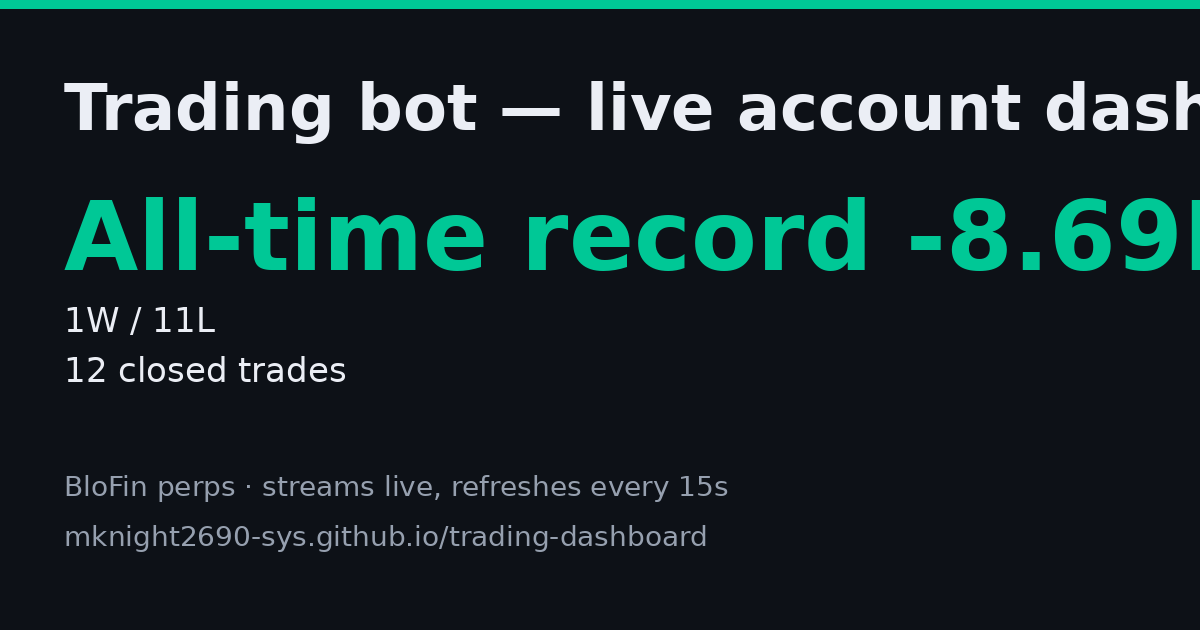
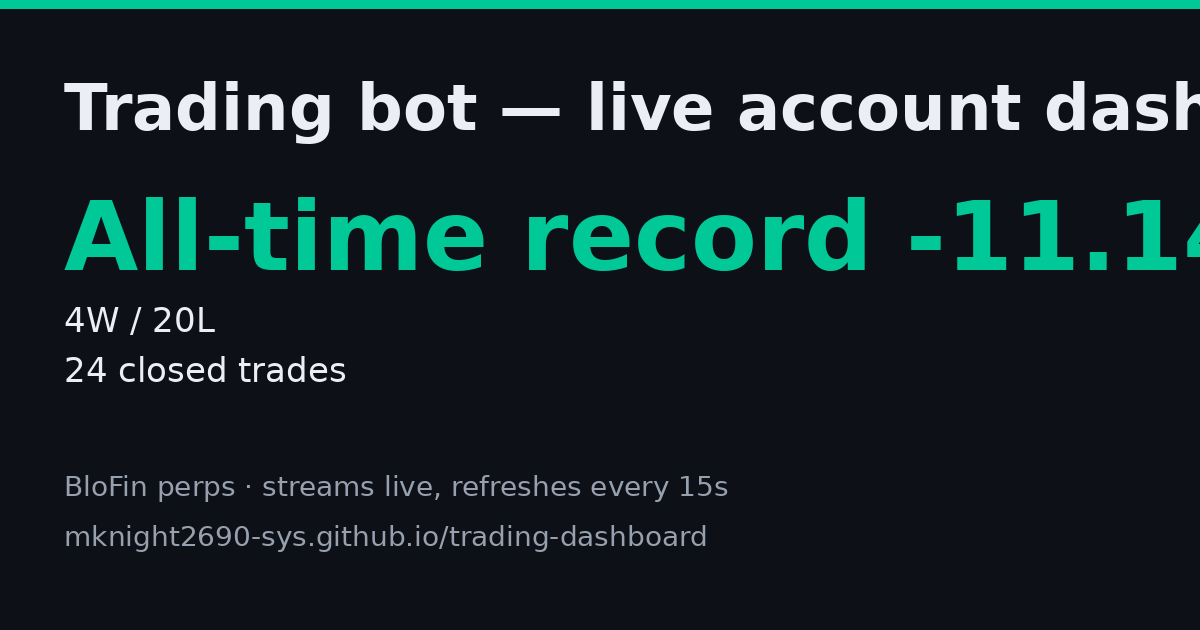
Update dashboard: 4W/20L -11.14R (24 trades)

diff --git a/index.html b/index.html
@@ -346,7 +346,7 @@
    No keys or secrets are on this page; it is read-only. */
 var BF_API = "https://openapi.blofin.com";
 var SNAP_URL = "blofin_state.json";
-var BAKED_SNAP = {"venue":"BloFin","updated_at_ms":1794368368034,"updated_at":"2026-11-11T03:39:28Z","account":{"equity":5.7,"withdrawable":0.39,"used_margin":5.32,"notional":94.2},"positions":[{"coin":"SPX","inst":"SPX-USDT","side":"LONG","timeframe":"1h","size":4.0,"entry":0.3649,"mark":0.3686,"lev":2,"margin":0.7298,"notional":1.4744,"upnl":0.0148,"upnl_pct":2.03,"sl":0.3522,"tp1":0.38480000000000003,"tp2":0.40390000000000004,"tp1_hit":false,"open_ms":1794359100937},{"coin":"COMP","inst":"COMP-USDT","side":"SHORT","timeframe":"15m","size":0.4,"entry":19.87,"mark":19.75,"lev":7,"margin":1.1354,"notional":7.9,"upnl":0.048,"upnl_pct":4.23,"sl":19.98,"tp1":19.66,"tp2":19.490000000000002,"tp1_hit":false,"open_ms":1794364704406},{"coin":"INJ","inst":"INJ-USDT","side":"LONG","timeframe":"15m","size":0.4,"entry":8.328,"mark":8.38,"lev":3,"margin":1.1104,"notional":3.352,"upnl":0.0208,"upnl_pct":1.87,"sl":8.199,"tp1":8.540000000000001,"tp2":8.735,"tp1_hit":false,"open_ms":1794365100000},{"coin":"SNX","inst":"SNX-USDT","side":"LONG","timeframe":"15m","size":35.0,"entry":0.1652,"mark":0.1656,"lev":5,"margin":1.1564,"notional":5.796,"upnl":0.014,"upnl_pct":1.21,"sl":0.1637,"tp1":0.1678,"tp2":0.17,"tp1_hit":false,"open_ms":1794365220000},{"coin":"FET","inst":"FET-USDT","side":"LONG","timeframe":"15m","size":40.0,"entry":0.1474,"mark":0.1472,"lev":5,"margin":1.1792,"notional":5.888,"upnl":-0.008,"upnl_pct":-0.68,"sl":0.1461,"tp1":0.1496,"tp2":0.1515,"tp1_hit":false,"open_ms":1794366900000}],"orders":[{"coin":"SPX","kind":"tp2","side":"sell","type":"limit","px":0.4039,"size":2.0,"reduce_only":true},{"coin":"SPX","kind":"tp1","side":"sell","type":"limit","px":0.3848,"size":2.0,"reduce_only":true},{"coin":"SPX","kind":"sl","side":"sell","type":"tpsl","px":0.3522,"size":4.0,"reduce_only":true},{"coin":"COMP","kind":"tp2","side":"buy","type":"limit","px":19.49,"size":0.2,"reduce_only":true},{"coin":"COMP","kind":"tp1","side":"buy","type":"limit","px":19.66,"size":0.2,"reduce_only":true},{"coin":"COMP","kind":"sl","side":"buy","type":"tpsl","px":19.98,"size":0.4,"reduce_only":true},{"coin":"INJ","kind":"tp2","side":"sell","type":"limit","px":8.735,"size":0.2,"reduce_only":true},{"coin":"INJ","kind":"tp1","side":"sell","type":"limit","px":8.54,"size":0.2,"reduce_only":true},{"coin":"INJ","kind":"sl","side":"sell","type":"tpsl","px":8.199,"size":0.4,"reduce_only":true},{"coin":"SNX","kind":"tp2","side":"sell","type":"limit","px":0.17,"size":18.0,"reduce_only":true},{"coin":"SNX","kind":"tp1","side":"sell","type":"limit","px":0.1678,"size":17.0,"reduce_only":true},{"coin":"SNX","kind":"sl","side":"sell","type":"tpsl","px":0.1637,"size":35.0,"reduce_only":true},{"coin":"FET","kind":"tp2","side":"sell","type":"limit","px":0.1515,"size":20.0,"reduce_only":true},{"coin":"FET","kind":"tp1","side":"sell","type":"limit","px":0.1496,"size":20.0,"reduce_only":true},{"coin":"FET","kind":"sl","side":"sell","type":"tpsl","px":0.1461,"size":40.0,"reduce_only":true}],"fills":[{"coin":"FET","time":1794366932726,"dir":"Open Long","px":0.1472,"sz":40.0,"pnl":0.0,"fee":0.0035328},{"coin":"AVAX","time":1794365910820,"dir":"Close Long","px":8.459,"sz":0.8,"pnl":-0.0656,"fee":0.00406032},{"coin":"SNX","time":1794365250457,"dir":"Open Long","px":0.1652,"sz":35.0,"pnl":0.0,"fee":0.0034692},{"coin":"POLYX","time":1794365220584,"dir":"Close Long","px":0.03046,"sz":236.0,"pnl":-0.06372,"fee":0.004313136},{"coin":"INJ","time":1794365131765,"dir":"Open Long","px":8.336,"sz":0.4,"pnl":0.0,"fee":0.00200064},{"coin":"AVAX","time":1794365128443,"dir":"Open Long","px":8.541,"sz":0.8,"pnl":0.0,"fee":0.00409968},{"coin":"POLYX","time":1794364741057,"dir":"Open Long","px":0.03073,"sz":236.0,"pnl":0.0,"fee":0.004351368},{"coin":"COMP","time":1794364737159,"dir":"Open Short","px":19.86,"sz":0.4,"pnl":0.0,"fee":0.0047664},{"coin":"ZRO","time":1794363080052,"dir":"Close Long","px":1.5417,"sz":2.0,"pnl":-0.0316,"fee":0.00185004},{"coin":"NEAR","time":1794362586475,"dir":"Close Long","px":3.647,"sz":1.0,"pnl":-0.046,"fee":0.0021882},{"coin":"TIA","time":1794362585776,"dir":"Close Long","px":0.4256,"sz":15.0,"pnl":-0.054,"fee":0.0038304},{"coin":"ATOM","time":1794361796858,"dir":"Close Long","px":1.404,"sz":5.0,"pnl":-0.065,"fee":0.004212},{"coin":"NEAR","time":1794361113607,"dir":"Open Long","px":3.693,"sz":1.0,"pnl":0.0,"fee":0.0022158},{"coin":"CHIP","time":1794361079966,"dir":"Close Short","px":0.03283,"sz":150.0,"pnl":-0.0675,"fee":0.0029547},{"coin":"ATOM","time":1794360630407,"dir":"Open Long","px":1.417,"sz":5.0,"pnl":0.0,"fee":0.004251},{"coin":"ZRO","time":1794359739193,"dir":"Open Long","px":1.5575,"sz":2.0,"pnl":0.0,"fee":0.001869},{"coin":"TIA","time":1794359734378,"dir":"Open Long","px":0.4292,"sz":15.0,"pnl":0.0,"fee":0.0038628},{"coin":"CHIP","time":1794359728186,"dir":"Open Short","px":0.03238,"sz":150.0,"pnl":0.0,"fee":0.0029142},{"coin":"SPX","time":1794359134177,"dir":"Open Long","px":0.3653,"sz":4.0,"pnl":0.0,"fee":0.00087672},{"coin":"ALGO","time":1794328519075,"dir":"Close Short","px":0.08814,"sz":20.0,"pnl":0.0744,"fee":0.00035256},{"coin":"AAVE","time":1794325307438,"dir":"Close Short","px":122.57,"sz":0.020000000000000004,"pnl":0.0788,"fee":0.00049028},{"coin":"LINK","time":1794325239367,"dir":"Close Short","px":10.231,"sz":0.3,"pnl":0.0768,"fee":0.00061386},{"coin":"ALGO","time":1794324949231,"dir":"Close Short","px":0.08986,"sz":20.0,"pnl":0.04,"fee":0.00035944},{"coin":"CAKE","time":1794322921303,"dir":"Close Short","px":1.8718,"sz":2.0,"pnl":-0.0376,"fee":0.00224616},{"coin":"LINK","time":1794321451340,"dir":"Open Short","px":10.487,"sz":0.3,"pnl":0.0,"fee":0.00188766},{"coin":"CAKE","time":1794321404218,"dir":"Open Short","px":1.853,"sz":2.0,"pnl":0.0,"fee":0.0022236},{"coin":"BANANA","time":1794321400565,"dir":"Close Short","px":2.898,"sz":2.9000000000000004,"pnl":-0.0783,"fee":0.00504252},{"coin":"ALGO","time":1794321399829,"dir":"Open Short","px":0.09186,"sz":40.0,"pnl":0.0,"fee":0.00220464},{"coin":"BCH","time":1794321385699,"dir":"Close Short","px":235.82,"sz":0.020000000000000004,"pnl":-0.0486,"fee":0.00282984},{"coin":"BSV","time":1794321373189,"dir":"Close Short","px":16.35,"sz":0.4,"pnl":-0.052,"fee":0.003924}],"stats":{"today":{"wins":3,"losses":9,"total_r":-2.45,"trades":12},"week":{"wins":4,"losses":20,"total_r":-11.14,"trades":24},"month":{"wins":4,"losses":20,"total_r":-11.14,"trades":24},"all_time":{"wins":4,"losses":20,"total_r":-11.14,"trades":24},"feed_start":"2026-11-10"},"closed":[{"coin":"MON","close_ms":1794291240000,"r":-0.9024,"pnl":-0.0592,"win":false,"reason":"Position closed (fill not observed)"},{"coin":"PIXEL","close_ms":1794291300000,"r":-0.7152,"pnl":-0.0469,"win":false,"reason":"Position closed (fill not observed)"},{"coin":"PENGU","close_ms":1794317084482,"r":-0.75,"pnl":-0.0492,"win":false,"reason":"Position closed (fill not observed)"},{"coin":"AVNT","close_ms":1794317084482,"r":-0.7073,"pnl":-0.0464,"win":false,"reason":"Position closed (fill not observed)"},{"coin":"DASH","close_ms":1794317084482,"r":-0.686,"pnl":-0.045,"win":false,"reason":"Position closed (fill not observed)"},{"coin":"NIL","close_ms":1794317160000,"r":0.1674,"pnl":0.011,"win":true,"reason":"Position closed (fill not observed)"},{"coin":"IO","close_ms":1794317340000,"r":-0.5183,"pnl":-0.034,"win":false,"reason":"Position closed (fill not observed)"},{"coin":"SUPER","close_ms":1794317460000,"r":-1.193,"pnl":-0.0783,"win":false,"reason":"Position closed (fill not observed)"},{"coin":"ADA","close_ms":1794321360000,"r":-0.6585,"pnl":-0.0432,"win":false,"reason":"Position closed (fill not observed)"},{"coin":"BCH","close_ms":1794321360000,"r":-0.7409,"pnl":-0.0486,"win":false,"reason":"Position closed (fill not observed)"},{"coin":"BSV","close_ms":1794321360000,"r":-0.7927,"pnl":-0.052,"win":false,"reason":"Position closed (fill not observed)"},{"coin":"BANANA","close_ms":1794321420000,"r":-1.1936,"pnl":-0.0783,"win":false,"reason":"Position closed (fill not observed)"},{"coin":"CAKE","close_ms":1794359100937,"r":-0.5732,"pnl":-0.0376,"win":false,"reason":"Position closed (fill not observed)"},{"coin":"AAVE","close_ms":1794359160000,"r":1.2012,"pnl":0.0788,"win":true,"reason":"Position closed (fill not observed)"},{"coin":"ALGO","close_ms":1794359160000,"r":1.7439,"pnl":0.1144,"win":true,"reason":"TP2 hit"},{"coin":"LINK","close_ms":1794359160000,"r":1.1707,"pnl":0.0768,"win":true,"reason":"Position closed (fill not observed)"},{"coin":"CHIP","close_ms":1794361080000,"r":-1.029,"pnl":-0.0675,"win":false,"reason":"Position closed (fill not observed)"},{"coin":"TIA","close_ms":1794364704406,"r":-0.8232,"pnl":-0.054,"win":false,"reason":"Position closed (fill not observed)"},{"coin":"ZRO","close_ms":1794364704406,"r":-0.4817,"pnl":-0.0316,"win":false,"reason":"Position closed (fill not observed)"},{"coin":"ATOM","close_ms":1794364704406,"r":-0.9909,"pnl":-0.065,"win":false,"reason":"Position closed (fill not observed)"},{"coin":"NEAR","close_ms":1794364704406,"r":-0.7012,"pnl":-0.046,"win":false,"reason":"Position closed (fill not observed)"},{"coin":"POLYX","close_ms":1794365220000,"r":-0.9713,"pnl":-0.0637,"win":false,"reason":"Position closed (fill not observed)"},{"coin":"AVAX","close_ms":1794365940000,"r":-1.0,"pnl":-0.0656,"win":false,"reason":"Position closed (fill not observed)"},{"coin":"WLFI","close_ms":1794366060001,"r":0.0,"pnl":0,"win":false,"reason":"Position closed (fill not observed)"}],"universe":{"tradable":153,"hl_total":235,"coins":["0G","AAVE","ACE","ADA","AERO","AIXBT","ALGO","ALT","APE","APT","AR","ARB","ASTER","ATOM","AVAX","AVNT","AXS","BANANA","BCH","BERA","BIGTIME","BIO","BLUR","BNB","BOME","BSV","BTC","CAKE","CASHCAT","CATI","CC","CHIP","COMP","CRV","CYBER","DASH","DOGE","DOT","DYDX","EIGEN","ENA","ENS","ETC","ETH","ETHFI","FARTCOIN","FET","FIL","FTM","GALA","GAS","GMX","GRAM","GRASS","HBAR","HEMI","HYPE","HYPER","ICP","ILV","IMX","INIT","INJ","IO","IOTA","JTO","JUP","KAITO","KAS","LAYER","LDO","LINEA","LINK","LIT","LTC","MANTA","MATIC","ME","MEGA","MELANIA","MEME","MERL","MET","MINA","MNT","MON","MOODENG","MORPHO","MOVE","NEAR","NEO","NIL","NOT","ONDO","OP","ORDI","PENDLE","PENGU","PEOPLE","PIXEL","POL","POLYX","PONS","POPCAT","PUMP","PYTH","RENDER","REZ","RNDR","RSR","RUNE","S","SAGA","SAND","SEI","SKY","SNX","SOL","SPX","STABLE","STRK","STX","SUI","SUPER","SUSHI","SYRUP","TAO","TIA","TRB","TRUMP","TRX","TURBO","UMA","UNI","USELESS","VIRTUAL","VVV","WCT","WIF","WLD","WLFI","XAI","XLM","XMR","XPL","XRP","ZEC","ZEN","ZETA","ZK","ZRO","kPEPE","kSHIB"]},"bot":{"risk_pct":0.01,"max_open":6,"max_margin":0.95,"fee_taker":0.0006,"live_start_ms":1794284568601,"feed_start":"2026-11-10"}};
+var BAKED_SNAP = {"venue":"BloFin","updated_at_ms":1794368970196,"updated_at":"2026-11-11T03:49:30Z","account":{"equity":5.71,"withdrawable":0.4,"used_margin":5.32,"notional":94.22},"positions":[{"coin":"SPX","inst":"SPX-USDT","side":"LONG","timeframe":"1h","size":4.0,"entry":0.3649,"mark":0.3695,"lev":2,"margin":0.7298,"notional":1.478,"upnl":0.0184,"upnl_pct":2.52,"sl":0.3522,"tp1":0.38480000000000003,"tp2":0.40390000000000004,"tp1_hit":false,"open_ms":1794359100937},{"coin":"COMP","inst":"COMP-USDT","side":"SHORT","timeframe":"15m","size":0.4,"entry":19.87,"mark":19.77,"lev":7,"margin":1.1354,"notional":7.908,"upnl":0.04,"upnl_pct":3.52,"sl":19.98,"tp1":19.66,"tp2":19.490000000000002,"tp1_hit":false,"open_ms":1794364704406},{"coin":"INJ","inst":"INJ-USDT","side":"LONG","timeframe":"15m","size":0.4,"entry":8.328,"mark":8.409,"lev":3,"margin":1.1104,"notional":3.3636,"upnl":0.0324,"upnl_pct":2.92,"sl":8.199,"tp1":8.540000000000001,"tp2":8.735,"tp1_hit":false,"open_ms":1794365100000},{"coin":"SNX","inst":"SNX-USDT","side":"LONG","timeframe":"15m","size":35.0,"entry":0.1652,"mark":0.1652,"lev":5,"margin":1.1564,"notional":5.782,"upnl":0.0,"upnl_pct":0.0,"sl":0.1637,"tp1":0.1678,"tp2":0.17,"tp1_hit":false,"open_ms":1794365220000},{"coin":"FET","inst":"FET-USDT","side":"LONG","timeframe":"15m","size":40.0,"entry":0.1474,"mark":0.1471,"lev":5,"margin":1.1792,"notional":5.884,"upnl":-0.012,"upnl_pct":-1.02,"sl":0.1461,"tp1":0.1496,"tp2":0.1515,"tp1_hit":false,"open_ms":1794366900000}],"orders":[{"coin":"SPX","kind":"tp2","side":"sell","type":"limit","px":0.4039,"size":2.0,"reduce_only":true},{"coin":"SPX","kind":"tp1","side":"sell","type":"limit","px":0.3848,"size":2.0,"reduce_only":true},{"coin":"SPX","kind":"sl","side":"sell","type":"tpsl","px":0.3522,"size":4.0,"reduce_only":true},{"coin":"COMP","kind":"tp2","side":"buy","type":"limit","px":19.49,"size":0.2,"reduce_only":true},{"coin":"COMP","kind":"tp1","side":"buy","type":"limit","px":19.66,"size":0.2,"reduce_only":true},{"coin":"COMP","kind":"sl","side":"buy","type":"tpsl","px":19.98,"size":0.4,"reduce_only":true},{"coin":"INJ","kind":"tp2","side":"sell","type":"limit","px":8.735,"size":0.2,"reduce_only":true},{"coin":"INJ","kind":"tp1","side":"sell","type":"limit","px":8.54,"size":0.2,"reduce_only":true},{"coin":"INJ","kind":"sl","side":"sell","type":"tpsl","px":8.199,"size":0.4,"reduce_only":true},{"coin":"SNX","kind":"tp2","side":"sell","type":"limit","px":0.17,"size":18.0,"reduce_only":true},{"coin":"SNX","kind":"tp1","side":"sell","type":"limit","px":0.1678,"size":17.0,"reduce_only":true},{"coin":"SNX","kind":"sl","side":"sell","type":"tpsl","px":0.1637,"size":35.0,"reduce_only":true},{"coin":"FET","kind":"tp2","side":"sell","type":"limit","px":0.1515,"size":20.0,"reduce_only":true},{"coin":"FET","kind":"tp1","side":"sell","type":"limit","px":0.1496,"size":20.0,"reduce_only":true},{"coin":"FET","kind":"sl","side":"sell","type":"tpsl","px":0.1461,"size":40.0,"reduce_only":true}],"fills":[{"coin":"FET","time":1794366932726,"dir":"Open Long","px":0.1472,"sz":40.0,"pnl":0.0,"fee":0.0035328},{"coin":"AVAX","time":1794365910820,"dir":"Close Long","px":8.459,"sz":0.8,"pnl":-0.0656,"fee":0.00406032},{"coin":"SNX","time":1794365250457,"dir":"Open Long","px":0.1652,"sz":35.0,"pnl":0.0,"fee":0.0034692},{"coin":"POLYX","time":1794365220584,"dir":"Close Long","px":0.03046,"sz":236.0,"pnl":-0.06372,"fee":0.004313136},{"coin":"INJ","time":1794365131765,"dir":"Open Long","px":8.336,"sz":0.4,"pnl":0.0,"fee":0.00200064},{"coin":"AVAX","time":1794365128443,"dir":"Open Long","px":8.541,"sz":0.8,"pnl":0.0,"fee":0.00409968},{"coin":"POLYX","time":1794364741057,"dir":"Open Long","px":0.03073,"sz":236.0,"pnl":0.0,"fee":0.004351368},{"coin":"COMP","time":1794364737159,"dir":"Open Short","px":19.86,"sz":0.4,"pnl":0.0,"fee":0.0047664},{"coin":"ZRO","time":1794363080052,"dir":"Close Long","px":1.5417,"sz":2.0,"pnl":-0.0316,"fee":0.00185004},{"coin":"NEAR","time":1794362586475,"dir":"Close Long","px":3.647,"sz":1.0,"pnl":-0.046,"fee":0.0021882},{"coin":"TIA","time":1794362585776,"dir":"Close Long","px":0.4256,"sz":15.0,"pnl":-0.054,"fee":0.0038304},{"coin":"ATOM","time":1794361796858,"dir":"Close Long","px":1.404,"sz":5.0,"pnl":-0.065,"fee":0.004212},{"coin":"NEAR","time":1794361113607,"dir":"Open Long","px":3.693,"sz":1.0,"pnl":0.0,"fee":0.0022158},{"coin":"CHIP","time":1794361079966,"dir":"Close Short","px":0.03283,"sz":150.0,"pnl":-0.0675,"fee":0.0029547},{"coin":"ATOM","time":1794360630407,"dir":"Open Long","px":1.417,"sz":5.0,"pnl":0.0,"fee":0.004251},{"coin":"ZRO","time":1794359739193,"dir":"Open Long","px":1.5575,"sz":2.0,"pnl":0.0,"fee":0.001869},{"coin":"TIA","time":1794359734378,"dir":"Open Long","px":0.4292,"sz":15.0,"pnl":0.0,"fee":0.0038628},{"coin":"CHIP","time":1794359728186,"dir":"Open Short","px":0.03238,"sz":150.0,"pnl":0.0,"fee":0.0029142},{"coin":"SPX","time":1794359134177,"dir":"Open Long","px":0.3653,"sz":4.0,"pnl":0.0,"fee":0.00087672},{"coin":"ALGO","time":1794328519075,"dir":"Close Short","px":0.08814,"sz":20.0,"pnl":0.0744,"fee":0.00035256},{"coin":"AAVE","time":1794325307438,"dir":"Close Short","px":122.57,"sz":0.020000000000000004,"pnl":0.0788,"fee":0.00049028},{"coin":"LINK","time":1794325239367,"dir":"Close Short","px":10.231,"sz":0.3,"pnl":0.0768,"fee":0.00061386},{"coin":"ALGO","time":1794324949231,"dir":"Close Short","px":0.08986,"sz":20.0,"pnl":0.04,"fee":0.00035944},{"coin":"CAKE","time":1794322921303,"dir":"Close Short","px":1.8718,"sz":2.0,"pnl":-0.0376,"fee":0.00224616},{"coin":"LINK","time":1794321451340,"dir":"Open Short","px":10.487,"sz":0.3,"pnl":0.0,"fee":0.00188766},{"coin":"CAKE","time":1794321404218,"dir":"Open Short","px":1.853,"sz":2.0,"pnl":0.0,"fee":0.0022236},{"coin":"BANANA","time":1794321400565,"dir":"Close Short","px":2.898,"sz":2.9000000000000004,"pnl":-0.0783,"fee":0.00504252},{"coin":"ALGO","time":1794321399829,"dir":"Open Short","px":0.09186,"sz":40.0,"pnl":0.0,"fee":0.00220464},{"coin":"BCH","time":1794321385699,"dir":"Close Short","px":235.82,"sz":0.020000000000000004,"pnl":-0.0486,"fee":0.00282984},{"coin":"BSV","time":1794321373189,"dir":"Close Short","px":16.35,"sz":0.4,"pnl":-0.052,"fee":0.003924}],"stats":{"today":{"wins":3,"losses":9,"total_r":-2.45,"trades":12},"week":{"wins":4,"losses":20,"total_r":-11.14,"trades":24},"month":{"wins":4,"losses":20,"total_r":-11.14,"trades":24},"all_time":{"wins":4,"losses":20,"total_r":-11.14,"trades":24},"feed_start":"2026-11-10"},"closed":[{"coin":"MON","close_ms":1794291240000,"r":-0.9024,"pnl":-0.0592,"win":false,"reason":"Position closed (fill not observed)"},{"coin":"PIXEL","close_ms":1794291300000,"r":-0.7152,"pnl":-0.0469,"win":false,"reason":"Position closed (fill not observed)"},{"coin":"PENGU","close_ms":1794317084482,"r":-0.75,"pnl":-0.0492,"win":false,"reason":"Position closed (fill not observed)"},{"coin":"AVNT","close_ms":1794317084482,"r":-0.7073,"pnl":-0.0464,"win":false,"reason":"Position closed (fill not observed)"},{"coin":"DASH","close_ms":1794317084482,"r":-0.686,"pnl":-0.045,"win":false,"reason":"Position closed (fill not observed)"},{"coin":"NIL","close_ms":1794317160000,"r":0.1674,"pnl":0.011,"win":true,"reason":"Position closed (fill not observed)"},{"coin":"IO","close_ms":1794317340000,"r":-0.5183,"pnl":-0.034,"win":false,"reason":"Position closed (fill not observed)"},{"coin":"SUPER","close_ms":1794317460000,"r":-1.193,"pnl":-0.0783,"win":false,"reason":"Position closed (fill not observed)"},{"coin":"ADA","close_ms":1794321360000,"r":-0.6585,"pnl":-0.0432,"win":false,"reason":"Position closed (fill not observed)"},{"coin":"BCH","close_ms":1794321360000,"r":-0.7409,"pnl":-0.0486,"win":false,"reason":"Position closed (fill not observed)"},{"coin":"BSV","close_ms":1794321360000,"r":-0.7927,"pnl":-0.052,"win":false,"reason":"Position closed (fill not observed)"},{"coin":"BANANA","close_ms":1794321420000,"r":-1.1936,"pnl":-0.0783,"win":false,"reason":"Position closed (fill not observed)"},{"coin":"CAKE","close_ms":1794359100937,"r":-0.5732,"pnl":-0.0376,"win":false,"reason":"Position closed (fill not observed)"},{"coin":"AAVE","close_ms":1794359160000,"r":1.2012,"pnl":0.0788,"win":true,"reason":"Position closed (fill not observed)"},{"coin":"ALGO","close_ms":1794359160000,"r":1.7439,"pnl":0.1144,"win":true,"reason":"TP2 hit"},{"coin":"LINK","close_ms":1794359160000,"r":1.1707,"pnl":0.0768,"win":true,"reason":"Position closed (fill not observed)"},{"coin":"CHIP","close_ms":1794361080000,"r":-1.029,"pnl":-0.0675,"win":false,"reason":"Position closed (fill not observed)"},{"coin":"TIA","close_ms":1794364704406,"r":-0.8232,"pnl":-0.054,"win":false,"reason":"Position closed (fill not observed)"},{"coin":"ZRO","close_ms":1794364704406,"r":-0.4817,"pnl":-0.0316,"win":false,"reason":"Position closed (fill not observed)"},{"coin":"ATOM","close_ms":1794364704406,"r":-0.9909,"pnl":-0.065,"win":false,"reason":"Position closed (fill not observed)"},{"coin":"NEAR","close_ms":1794364704406,"r":-0.7012,"pnl":-0.046,"win":false,"reason":"Position closed (fill not observed)"},{"coin":"POLYX","close_ms":1794365220000,"r":-0.9713,"pnl":-0.0637,"win":false,"reason":"Position closed (fill not observed)"},{"coin":"AVAX","close_ms":1794365940000,"r":-1.0,"pnl":-0.0656,"win":false,"reason":"Position closed (fill not observed)"},{"coin":"WLFI","close_ms":1794366060001,"r":0.0,"pnl":0,"win":false,"reason":"Position closed (fill not observed)"}],"universe":{"tradable":153,"hl_total":235,"coins":["0G","AAVE","ACE","ADA","AERO","AIXBT","ALGO","ALT","APE","APT","AR","ARB","ASTER","ATOM","AVAX","AVNT","AXS","BANANA","BCH","BERA","BIGTIME","BIO","BLUR","BNB","BOME","BSV","BTC","CAKE","CASHCAT","CATI","CC","CHIP","COMP","CRV","CYBER","DASH","DOGE","DOT","DYDX","EIGEN","ENA","ENS","ETC","ETH","ETHFI","FARTCOIN","FET","FIL","FTM","GALA","GAS","GMX","GRAM","GRASS","HBAR","HEMI","HYPE","HYPER","ICP","ILV","IMX","INIT","INJ","IO","IOTA","JTO","JUP","KAITO","KAS","LAYER","LDO","LINEA","LINK","LIT","LTC","MANTA","MATIC","ME","MEGA","MELANIA","MEME","MERL","MET","MINA","MNT","MON","MOODENG","MORPHO","MOVE","NEAR","NEO","NIL","NOT","ONDO","OP","ORDI","PENDLE","PENGU","PEOPLE","PIXEL","POL","POLYX","PONS","POPCAT","PUMP","PYTH","RENDER","REZ","RNDR","RSR","RUNE","S","SAGA","SAND","SEI","SKY","SNX","SOL","SPX","STABLE","STRK","STX","SUI","SUPER","SUSHI","SYRUP","TAO","TIA","TRB","TRUMP","TRX","TURBO","UMA","UNI","USELESS","VIRTUAL","VVV","WCT","WIF","WLD","WLFI","XAI","XLM","XMR","XPL","XRP","ZEC","ZEN","ZETA","ZK","ZRO","kPEPE","kSHIB"]},"bot":{"risk_pct":0.01,"max_open":6,"max_margin":0.95,"fee_taker":0.0006,"live_start_ms":1794284568601,"feed_start":"2026-11-10"}};
 
 var $ = function(id){ return document.getElementById(id); };
 var paused = false, failCount = 0, timer = null, lastOk = 0;
